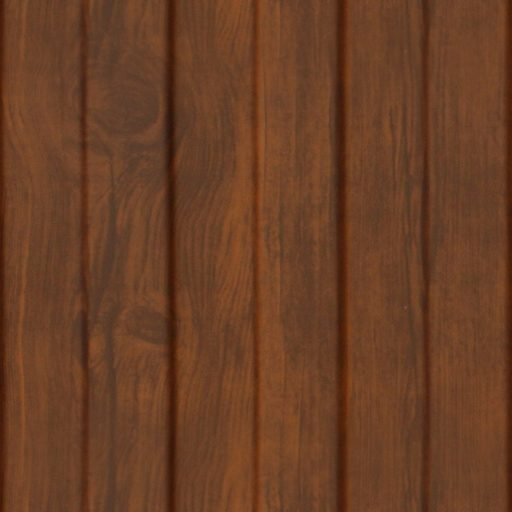
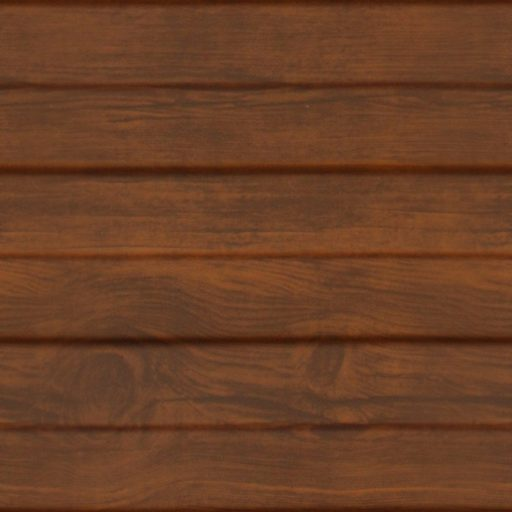
Run the paneled wood planks horizontally

diff --git a/css/materials.css b/css/materials.css
@@ -23,7 +23,7 @@
     var(--fam-tex-wood-light-tile) 0 0 / 380px repeat;
 }
 
-/* Dark vertical planks; the tile holds six whole planks, so a 380px repeat gives planks about 63px wide */
+/* Dark horizontal planks; the tile holds six whole planks, so a 380px repeat gives planks about 63px tall */
 .fam-wood-paneled {
   background: var(--fam-tex-wood-paneled-tile) 0 0 / 380px repeat;
 }

diff --git a/tools/texture-pipeline/make_paneled_tile.py b/tools/texture-pipeline/make_paneled_tile.py
@@ -1,4 +1,4 @@
-"""Cut a seamless tile from a photo of vertical planks.
+"""Cut a seamless tile of horizontal planks from a photo of vertical ones.
 
 usage: make_paneled_tile.py SOURCE OUTPUT X0 X1 Y0 SIZE
 X0, X1  columns of two plank seams, so the tile holds a whole number of planks and the seam line is split across the wrap
@@ -6,6 +6,7 @@ Y0      top of the square crop, which is X1 - X0 tall; pick it clear of any bolt
 SIZE    output tile edge in pixels
 The grain runs along the planks, so only the top and bottom edges need blending. The tile is crossfaded with a copy rolled by half
 its height, which is continuous across the tile's top and bottom edges. make_tile.py also blends sideways, which would ghost the seams.
+The finished tile is turned a quarter turn so the planks run horizontally, like the grain of fam-wood.
 """
 import sys
 from PIL import Image, ImageChops
@@ -22,5 +23,5 @@ rolled = ImageChops.offset(tile, 0, size // 2)
 ramp = Image.new("L", (1, size))
 ramp.putdata([round(255 * min(1.0, 2.2 * (1 - abs(2 * y / (size - 1) - 1)))) for y in range(size)])
 weight = ramp.resize((size, size))
-Image.composite(tile, rolled, weight).save(output_path, quality=82)
+Image.composite(tile, rolled, weight).rotate(90).save(output_path, quality=82)
 print(output_path, (size, size))

diff --git a/tools/texture-pipeline/plank_direction.py b/tools/texture-pipeline/plank_direction.py
@@ -1,0 +1,19 @@
+"""Print how much more the rows of a tile differ from each other than its columns do.
+
+usage: plank_direction.py TILE
+Horizontal planks make each row a different brightness while every column looks alike, so the ratio is well above 1.
+Vertical planks give a ratio well below 1.
+"""
+import sys
+from PIL import Image
+
+
+def spread(values):
+    mean = sum(values) / len(values)
+    return sum((value - mean) ** 2 for value in values) / len(values)
+
+
+gray = Image.open(sys.argv[1]).convert("L")
+row_means = list(gray.resize((1, gray.height), Image.BOX).tobytes())
+column_means = list(gray.resize((gray.width, 1), Image.BOX).tobytes())
+print(spread(row_means) / spread(column_means))

diff --git a/CREDITS.md b/CREDITS.md
@@ -9,7 +9,7 @@ Every texture in `assets/` is processed from a photograph on Unsplash. Unsplash 
 | `felt-gray-tile.jpg` | `felt_lele-wan-ZHD1jN0QXwM-unsplash.jpg` | lele-wan | `make_tile.py 0.5 512 60`, then `to_tint_tile.py` |
 | `linen-tile.jpg` | `linen_logan-voss-sFGj4Lj1un8-unsplash.jpg` | logan-voss | `make_tile.py 0.3 384 40`, then `to_gray_tint_tile.py ... 215 18` |
 | `wood-light-tile.jpg` | `wood_smithsonian-e0pPip5TQRE-unsplash.jpg` | smithsonian | `make_tile.py 0.5 512 60 90` |
-| `wood-paneled-tile.jpg` | `wood-planks_ekaterina-novitskaya-KugwNl9jX1Q-unsplash.jpg` | ekaterina-novitskaya | `make_paneled_tile.py ... 654 1596 800 512`, six whole planks cut clear of the bolts |
+| `wood-paneled-tile.jpg` | `wood-planks_ekaterina-novitskaya-KugwNl9jX1Q-unsplash.jpg` | ekaterina-novitskaya | `make_paneled_tile.py ... 654 1596 800 512`, six whole planks cut clear of the bolts and turned to run horizontally |
 | `metal-tile.jpg` | `metal-brushed_apryan-widodo-tRrIXmtOmL4-unsplash.jpg` | apryan-widodo | `make_tile.py 0.55 512 14` |
 | `metal-sandblasted-tile.jpg` | `metal_katie-harp-TnQE5X48FMA-unsplash.jpg` | katie-harp | `make_tile.py 0.9 512 40` |
 | `metal-brushed.jpg` | `metal-brushed_apryan-widodo-tRrIXmtOmL4-unsplash.jpg` | apryan-widodo | processed copy, recipe not recorded |

diff --git a/docs/superpowers/plans/2026-10-23-more-materials.md b/docs/superpowers/plans/2026-10-23-more-materials.md
@@ -103,7 +103,7 @@ The black frame and fill are neutral gray (fill mean is about 45,45,45), the tan
 - Produces: `fam-wood-paneled`, `.fam-engraved-wood-paneled`
 
 - [ ] **Step 1:** Checklist step 1 with id `wood-paneled`. Expect FAIL.
-- [ ] **Step 2:** Cut the tile from a crop that avoids every bolt and nail, with the plank seams vertical and the repeat period an exact multiple of the plank spacing so the seams line up. Add a check to the checklist's look step: no nail visible in a 3x3 repeat.
+- [ ] **Step 2:** Cut the tile from a crop that avoids every bolt and nail, with the plank seams horizontal in the finished tile and the repeat period an exact multiple of the plank spacing so the seams line up. Add a check to the checklist's look step: no nail visible in a 3x3 repeat.
 - [ ] **Step 3:** The surface is dark, so the nav bar and a light engraved class `.fam-engraved-wood-paneled` take light ink, fitted to the tile pixels. Add a `fam-wood-paneled` panel to `#scene-engraved`.
 - [ ] **Step 4:** Checklist steps 3 to 8. Commit message: `Add paneled wood with a navigation bar`.
 

diff --git a/README.md b/README.md
@@ -78,7 +78,7 @@ Put a material class on any box:
 - `fam-felt`: tintable felt, for screen backgrounds.
 - `fam-linen`: woven linen that takes a tint. Set `--fam-linen-tint` (natural linen by default), the way felt takes `--fam-tint`.
 - `fam-wood`: light wood with horizontal grain, for navigation bars and panels.
-- `fam-wood-paneled`: dark vertical planks, for navigation bars and panels. Its text is light.
+- `fam-wood-paneled`: dark horizontal planks, for navigation bars and panels. Its text is light.
 - `fam-metal-brushed`: brushed metal, for plates, toolbars, navigation bars and panels.
 - `fam-metal`: fine sandblasted metal, for the same uses. Its buttons are `fam-metal-button fam-metal-button--sandblasted`.
 - `fam-plastic-panel`: cream satin plastic for controls to sit on. Use it with a `fam-round-*` class.
